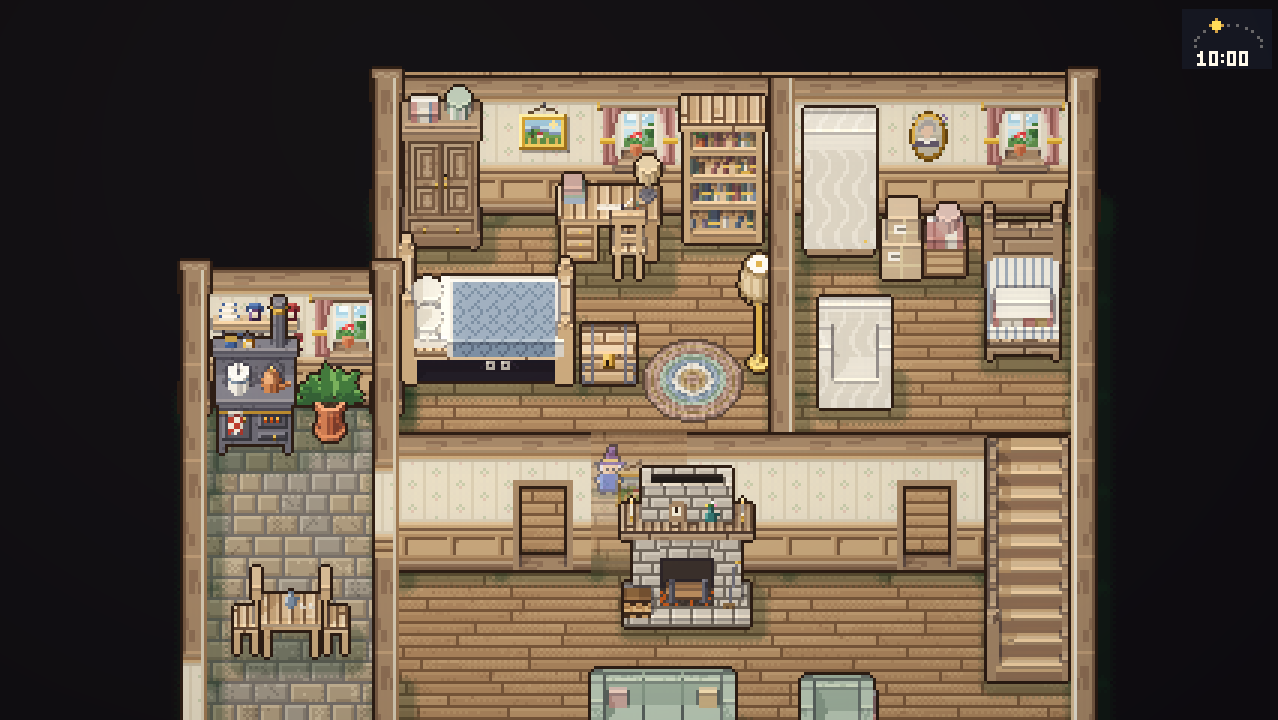
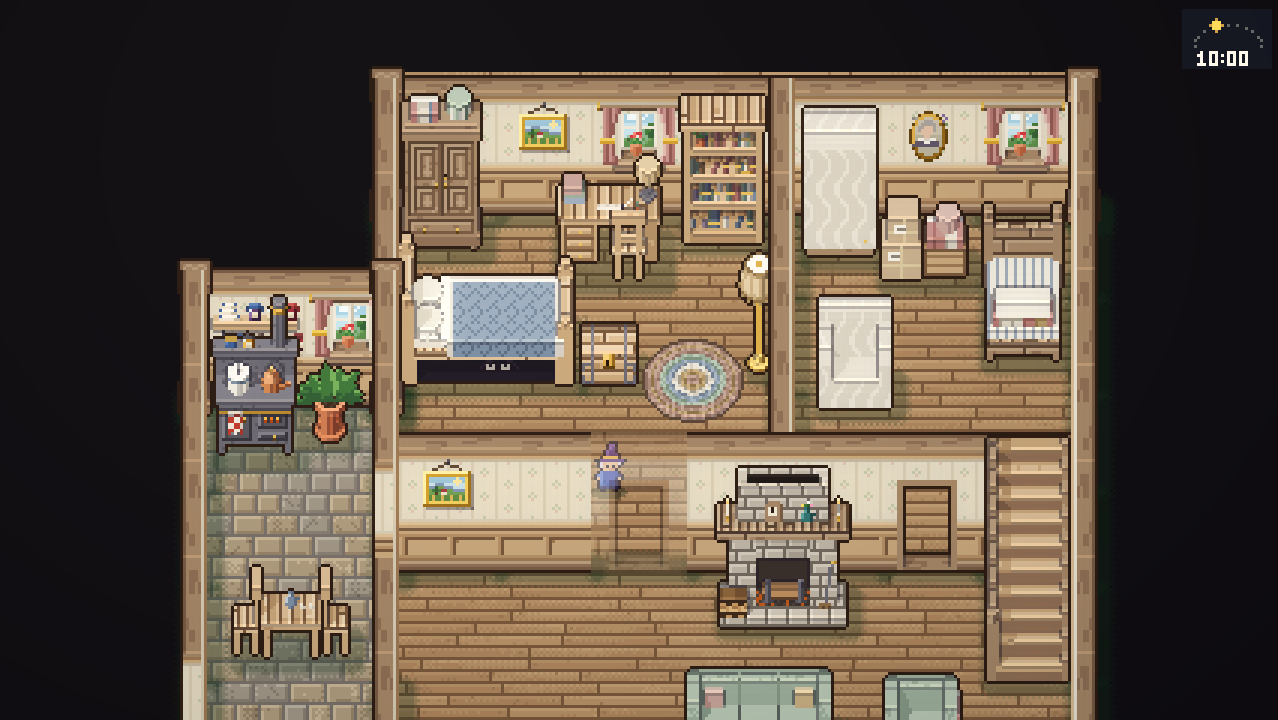
Move the fireplace and the hero's door to the right
Claude-Session: https://claude.ai/code/session_01Y3QepJTJgk9rCJ93wTDK78

Changed region(s): [[0.3052, 0.6111, 0.7629, 1.0]]

diff --git a/CHANGELOG.md b/CHANGELOG.md
@@ -2,6 +2,11 @@
 
 按时间倒序记录每次更新。版本号用 `0.主版本.小版本`：画面方向或架构发生变化时加主版本号，同一方向上的调整加小版本号。括号里是对应的提交。
 
+## v0.18.2 · 壁炉和主角房门往右挪（2026-10-14）
+
+- **客厅**：壁炉往右挪到客厅中间，沙发、茶几和扶手椅跟着往右，还是对着壁炉。
+- **主角的房门**：在中间那道墙上往右挪了一格，原来的位置换成一幅挂画。
+
 ## v0.18.1 · 修好墙的遮挡，床往上挪（2026-10-14）
 
 - **卧室隔墙**：主角和奶奶房间之间的隔墙一直通到中间那道墙，墙头不再露在中间墙上面。两个房间完全隔开，中间墙后面那条走道也走不过去了。
